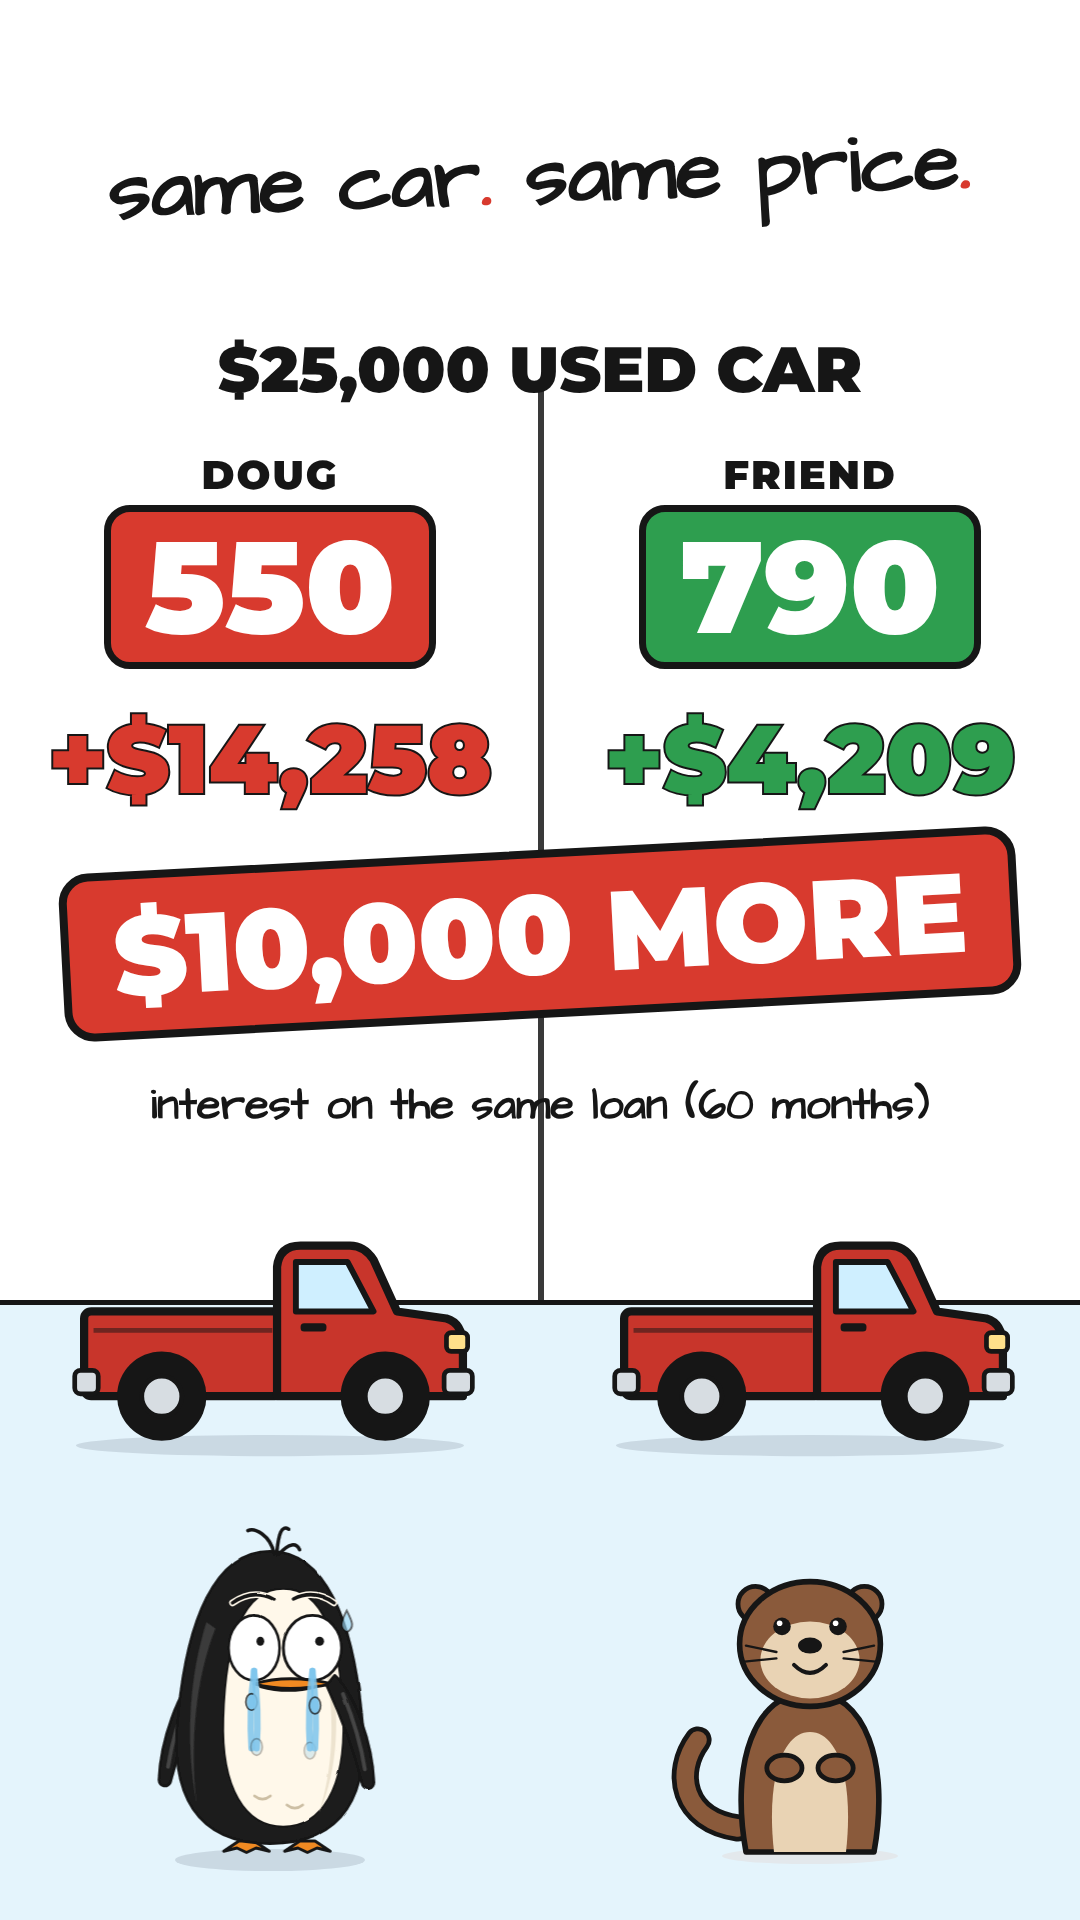
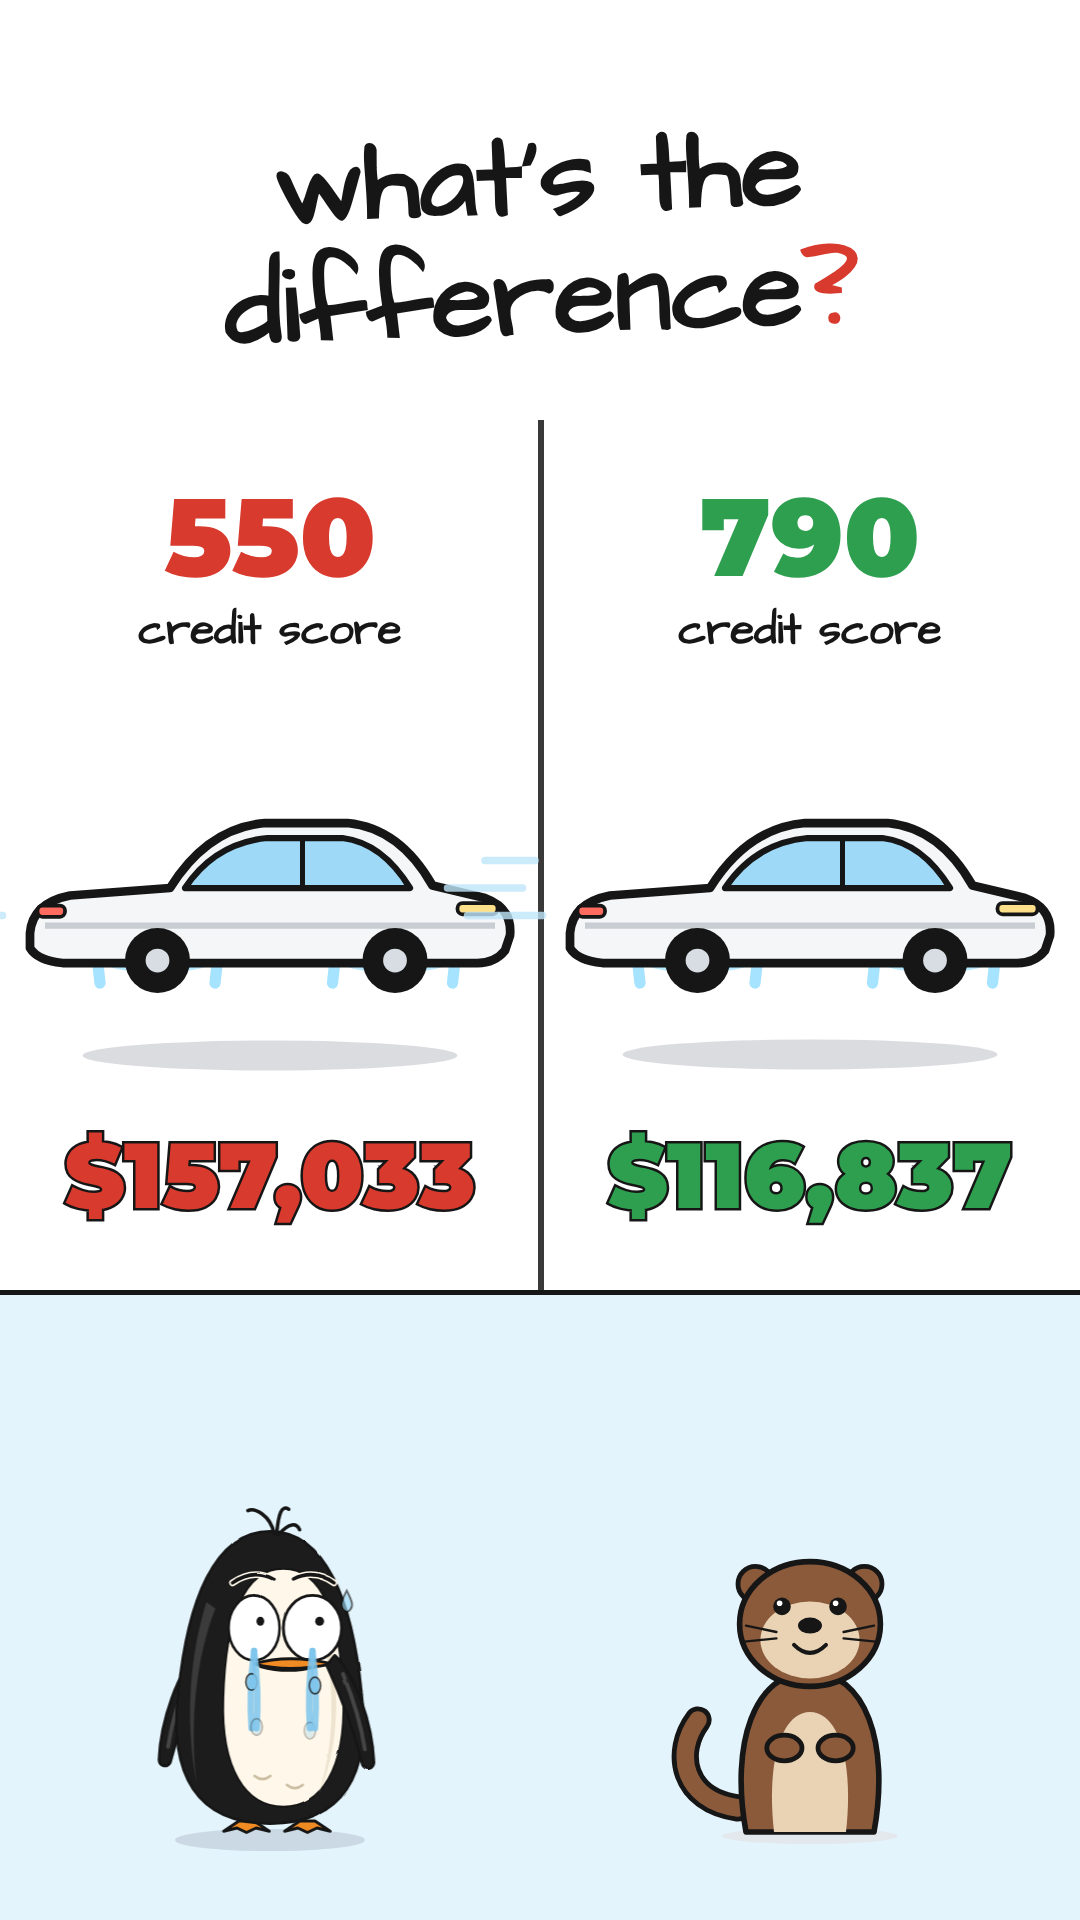
EP8 credit hook v2: original flying car, plain prices ($157,033 vs $116,837), title what's the difference
Claude-Session: https://claude.ai/code/session_01C6F6q1rj9zfC7zP2KuqjQQ

Changed region(s): [[0.0, 0.0625, 1.0, 1.0], [0.6111, 0.8125, 0.825, 0.9688]]

diff --git a/studio/src/videos/dougCredit.tsx b/studio/src/videos/dougCredit.tsx
@@ -1,43 +1,52 @@
 // EP8 "Credit score: same $25,000 car, Doug pays $10,000 more". Hook image first (approval).
 // Numbers: $25,000 used car, 60 months. APR by VantageScore tier, Experian Q1 2026 (used): 501-600 = 19.42%, 781-850 = 6.30%.
-// Interest: 19.42% -> $14,258 ; 6.30% -> $4,209 ; difference ~ $10,049.
+// $100,000 car, 60 months: 19.42% -> $157,033 total ($2,617/mo) ; 6.30% -> $116,837 total ($1,947/mo).
 import React from 'react';
 import {AbsoluteFill} from 'remotion';
 import {Fonts, HandFont} from '../base';
 import {INK, Penguin} from '../penguin/rig';
-import {Car, Otter} from './dougFriend';
+import {Otter} from './dougFriend';
 
 const G = 1300;
 const RED = '#D83A2E', GREEN = '#2E9E4F';
 
-const Score = ({x, y, n, color, who}: {x: number; y: number; n: number; color: string; who: string}) =>
-  <div style={{position: 'absolute', left: x - 200, width: 400, top: y, textAlign: 'center'}}>
-    <div style={{fontFamily: 'Montserrat', fontWeight: 900, fontSize: 40, color: INK, letterSpacing: 2}}>{who}</div>
-    <div style={{display: 'inline-block', marginTop: 6, background: color, color: '#fff', border: `7px solid ${INK}`, borderRadius: 26, padding: '0 34px', fontFamily: 'Montserrat', fontWeight: 900, fontSize: 130, lineHeight: '150px'}}>{n}</div>
-  </div>;
+// Original sleek electric flying car (no brand, no logo): white body, glass roof, glowing thrusters, hover glow + shadow.
+const FlyCar = ({x, y, w = 440, t = 0}: {x: number; y: number; w?: number; t?: number}) => {
+  const k = w / 400, bob = Math.sin(t * 3) * 6;
+  return <svg width={w} height={190 * k} viewBox="0 0 400 190" style={{position: 'absolute', left: x - w / 2, top: y - 190 * k + bob, overflow: 'visible'}}>
+    <ellipse cx={200} cy={186 + 40 - bob} rx={150} ry={12} fill="rgba(30,40,60,0.16)" />
+    <ellipse cx={110} cy={150} rx={44} ry={10} fill="#7FD8FF" opacity={0.55} />
+    <ellipse cx={300} cy={150} rx={44} ry={10} fill="#7FD8FF" opacity={0.55} />
+    <path d="M62 150 L64 168 M158 150 L156 168 M252 150 L250 168 M348 150 L346 168" stroke="#7FD8FF" strokeWidth={9} strokeLinecap="round" opacity={0.7} />
+    <path d="M8 128 Q10 104 40 98 L120 92 Q150 44 196 40 L262 40 Q304 44 330 90 L372 100 Q394 108 392 130 L388 142 Q380 152 366 152 L34 152 Q14 150 8 140 Z" fill="#F4F6F8" stroke={INK} strokeWidth={7} strokeLinejoin="round" />
+    <path d="M132 92 Q156 56 198 52 L258 52 Q290 56 312 92 Z" fill="#9ED9F7" stroke={INK} strokeWidth={5} strokeLinejoin="round" />
+    <line x1={226} y1={52} x2={226} y2={92} stroke={INK} strokeWidth={4} />
+    <path d="M20 122 L380 122" stroke="#C7CDD3" strokeWidth={5} />
+    <rect x={350} y={104} width={32} height={9} rx={4} fill="#FFE08A" stroke={INK} strokeWidth={3} />
+    <rect x={14} y={106} width={22} height={9} rx={4} fill="#FF6B5E" stroke={INK} strokeWidth={3} />
+    <path d="M-20 70 L-60 70 M-30 92 L-90 92 M-14 114 L-74 114" stroke="#BFE6FA" strokeWidth={6} strokeLinecap="round" opacity={0.8} />
+    <g>{[110, 300].map((cx) => <g key={cx}><circle cx={cx} cy={150} r={26} fill={INK} /><circle cx={cx} cy={150} r={11} fill="#D7DDE2" stroke={INK} strokeWidth={3} /></g>)}</g>
+  </svg>;
+};
 
-const Tag = ({x, y, text, color, size = 88}: {x: number; y: number; text: string; color: string; size?: number}) =>
-  <div style={{position: 'absolute', left: x - 250, width: 500, top: y, textAlign: 'center', fontFamily: 'Montserrat', fontWeight: 900, fontSize: size, color, WebkitTextStroke: `4px ${INK}`, paintOrder: 'stroke fill'}}>{text}</div>;
+const Cost = ({x, y, n, color, t}: {x: number; y: number; n: string; color: string; t: number}) =>
+  <div style={{position: 'absolute', left: x - 260, width: 520, top: y, textAlign: 'center', fontFamily: 'Montserrat', fontWeight: 900, fontSize: 92, lineHeight: '110px', color, WebkitTextStroke: `5px ${INK}`, paintOrder: 'stroke fill'}}>{n}</div>;
 
-export const CreditHook = () => <>
-  <div style={{position: 'absolute', left: 538, top: 380, width: 6, height: 1150, background: INK, opacity: 0.85}} />
-  <div style={{position: 'absolute', left: -400, right: -400, top: G, height: 700, background: '#E4F4FC', borderTop: `5px solid ${INK}`}} />
-  <div style={{position: 'absolute', left: 0, right: 0, top: 130, textAlign: 'center', fontFamily: 'Architects Daughter', fontWeight: 700, fontSize: 84, lineHeight: '96px', color: INK, transform: 'rotate(-2deg)'}}>
-    same car<span style={{color: RED}}>.</span> same price<span style={{color: RED}}>.</span>
+export const CreditHook = ({t = 0}: {t?: number}) => <>
+  <div style={{position: 'absolute', left: 538, top: 420, width: 6, height: 870, background: INK, opacity: 0.85}} />
+  <div style={{position: 'absolute', left: -400, right: -400, top: 1290, height: 700, background: '#E4F4FC', borderTop: `5px solid ${INK}`}} />
+  <div style={{position: 'absolute', left: 0, right: 0, top: 120, textAlign: 'center', fontFamily: 'Architects Daughter', fontWeight: 700, fontSize: 112, lineHeight: '120px', color: INK, transform: 'rotate(-2deg)'}}>
+    what's the<br />difference<span style={{color: RED}}>?</span>
   </div>
-  <div style={{position: 'absolute', left: 0, right: 0, top: 330, textAlign: 'center', fontFamily: 'Montserrat', fontWeight: 900, fontSize: 64, color: INK}}>$25,000 USED CAR</div>
-  <Score x={270} y={450} n={550} color={RED} who="DOUG" />
-  <Score x={810} y={450} n={790} color={GREEN} who="FRIEND" />
-  <Car x={270} y={G + 150} w={400} kind="pickup" color="#C8352B" t={0} />
-  <Car x={810} y={G + 150} w={400} kind="pickup" color="#C8352B" t={0} />
-  <Tag x={270} y={700} text="+$14,258" color={RED} size={96} />
-  <Tag x={810} y={700} text="+$4,209" color={GREEN} size={96} />
-  <div style={{position: 'absolute', left: 0, right: 0, top: 850, textAlign: 'center'}}>
-    <span style={{display: 'inline-block', background: RED, color: '#fff', border: `8px solid ${INK}`, borderRadius: 30, padding: '8px 44px', fontFamily: 'Montserrat', fontWeight: 900, fontSize: 112, transform: 'rotate(-3deg)'}}>$10,000 MORE</span>
-  </div>
-  <div style={{position: 'absolute', left: 0, right: 0, top: 1075, textAlign: 'center', fontFamily: 'Architects Daughter', fontWeight: 700, fontSize: 44, color: INK}}>interest on the same loan (60 months)</div>
-  <Penguin id="doug" x={270} y={G + 560} h={330} pose={{turn: 0.5, look: [0.4, -0.5], brows: 'shock', eyeScale: 1.35, sweat: true, tears: true}} />
-  <Otter x={810} y={G + 560} h={320} flip t={0} />
+  <div style={{position: 'absolute', left: 0, top: 470, width: 540, textAlign: 'center', fontFamily: 'Montserrat', fontWeight: 900, fontSize: 110, color: RED}}>550</div>
+  <div style={{position: 'absolute', left: 540, top: 470, width: 540, textAlign: 'center', fontFamily: 'Montserrat', fontWeight: 900, fontSize: 110, color: GREEN}}>790</div>
+  {[270, 810].map((x) => <div key={x} style={{position: 'absolute', left: x - 200, width: 400, top: 600, textAlign: 'center', fontFamily: 'Architects Daughter', fontWeight: 700, fontSize: 44, color: INK}}>credit score</div>)}
+  <FlyCar x={270} y={1010} w={500} t={t} />
+  <FlyCar x={810} y={1010} w={500} t={t + 1} />
+  <Cost x={270} y={1120} n="$157,033" color={RED} t={t} />
+  <Cost x={810} y={1120} n="$116,837" color={GREEN} t={t} />
+  <Penguin id="doug" x={270} y={G + 540} h={330} pose={{turn: 0.5, look: [0.4, -0.5], brows: 'shock', eyeScale: 1.35, sweat: true, tears: true}} />
+  <Otter x={810} y={G + 540} h={320} flip t={t} />
 </>;
 
 export const DOUG_CREDIT_HOOK_SECONDS = 3;
